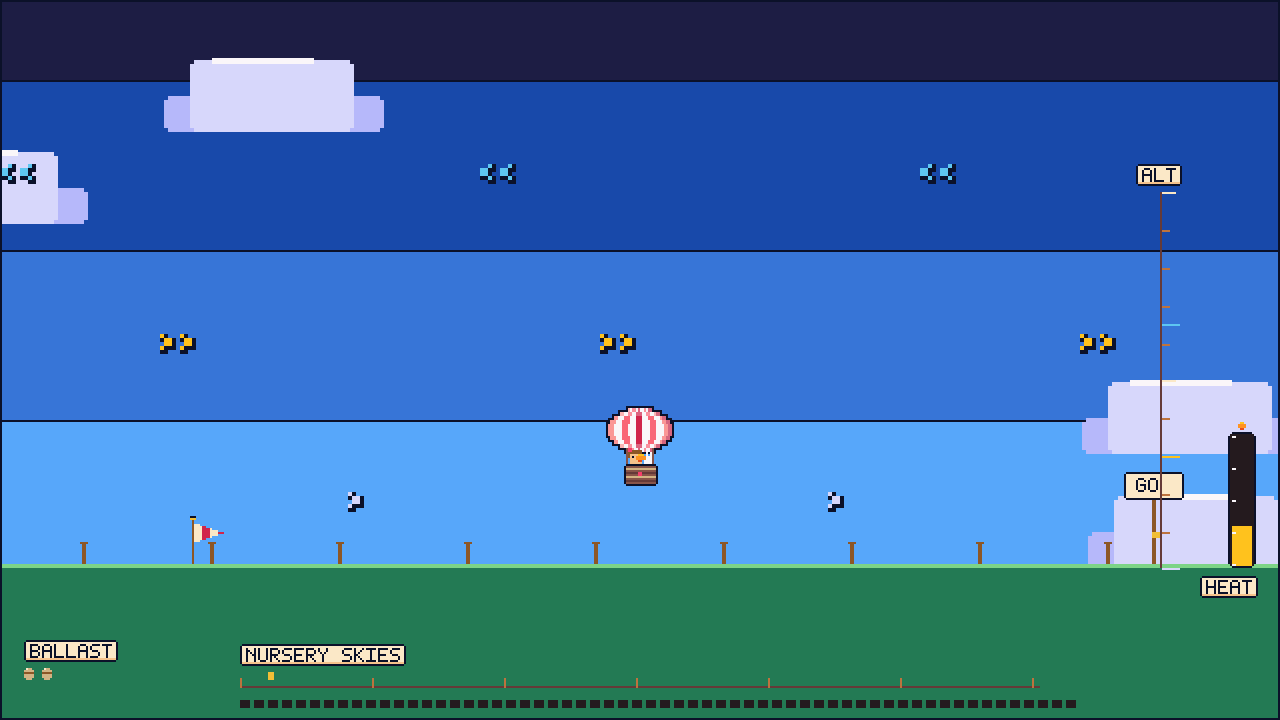
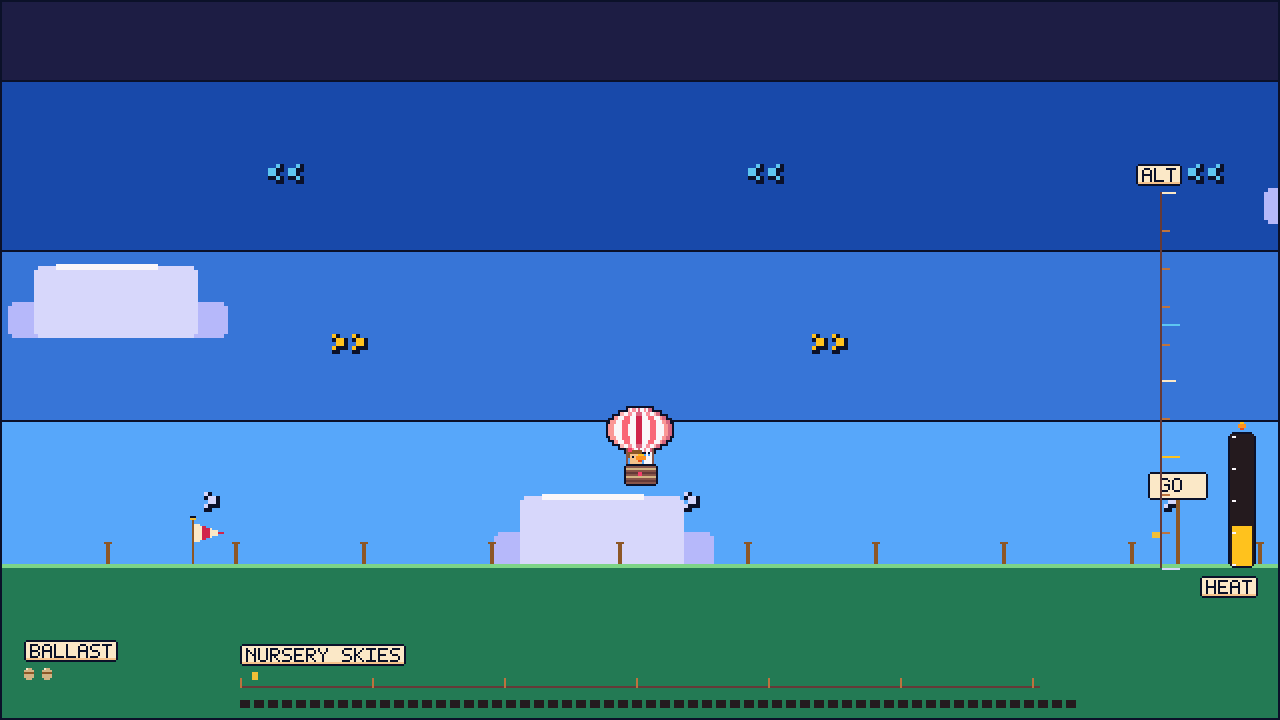
fix(feel): halve the wind bands — the sky must not fly at the player
Playtest round 2 of the I5 feel gate: decoration tuning was not enough,
because the whole world sweeps past the camera at band speed. The last
lever was the wind itself, and the playtest pulled it:

- Band speeds 40/75/110 -> 20/38/55 px/s (gusts scaled to match). The
  delivery autopilot absorbed the halving with zero retuning: it scores
  real altitude holds every second instead of flying a hand-drawn
  pattern, so slower air just means it plans a slower flight.
- Cloud layers pushed further still (0.40/0.25 parallax, 6-10% drift);
  chevron travel trimmed to 4% of band speed.
- New invariant test: the ghost pilot lands 3 stars, clean, inside par
  on every level — par stays a promise that a good flight exists at the
  new speeds. Courses and pars kept; a balloon rides a breeze.

Initiative: 5 (feel gate, playtest round 2)
Verified: dotnet test 46/46 (incl. ghost-pilot-inside-par x3); npx
playwright test 36/36 both viewports; docs/screenshots refreshed and
judged (bands still read at calmed drift, clouds read as distance)

diff --git a/tests/harness.spec.js b/tests/harness.spec.js
@@ -141,7 +141,7 @@ test('the wind bands own horizontal travel, and switching levels relaunches', as
   });
 
   expect(flown.drift).toBeGreaterThan(100);                 // climbing into the + band moved us downwind
-  expect(flown.vx).toBeGreaterThan(50);                     // ...and velocity is chasing that band's wind
+  expect(flown.vx).toBeGreaterThan(25);                     // ...chasing that band's 38 px/s wind (post-sickness halving)
   expect(flown.bad).toBe('error:unknown-level:nowhere-level');
   expect(flown.switched).toBe('ok:level=night-crossing');
   expect(flown.afterSwitch).toBe(0);                        // switched = relaunched, not teleported

diff --git a/Balloonatic/Balloonatic.Game/Screens/WorldScreen.cs b/Balloonatic/Balloonatic.Game/Screens/WorldScreen.cs
@@ -24,9 +24,9 @@ namespace Balloonatic.Screens
         // Deliberately far below the camera speed: the world itself already sweeps past at wind speed,
         // and background layers that ride along at near-world speed make the sky feel like it is flying
         // at the player (playtest: motion sickness at 2x scale). Distance should read as slowness.
-        const float StarsParallax = 0.2f;
-        const float FarCloudParallax = 0.35f;
-        const float MidCloudParallax = 0.55f;
+        const float StarsParallax = 0.15f;
+        const float FarCloudParallax = 0.25f;
+        const float MidCloudParallax = 0.40f;
 
         // Stepped sky ramp by altitude: the higher the balloon, the older and darker the air gets.
         static readonly (float Altitude, Color Color)[] SkyRamp =
@@ -174,7 +174,7 @@ namespace Balloonatic.Screens
                 // player's ambient wind read — and the drift is state-derived (tick), so frames are stable.
                 // A slow suggestion of drift, not the band's full speed: big pale shapes crossing fast
                 // are exactly what the eye cannot ignore and the stomach cannot forgive.
-                float drift = Clock(state) * band.Direction * LevelDef.WindSpeed(band.Strength) * (far ? 0.10f : 0.16f);
+                float drift = Clock(state) * band.Direction * LevelDef.WindSpeed(band.Strength) * (far ? 0.06f : 0.10f);
 
                 int x = Wrap(wx + (int)drift - (int)(camX * parallax), span) - span / 4;
                 int y = ScreenY(altitude - (int)(camAlt * (1f - parallax)), camAlt);
@@ -199,7 +199,7 @@ namespace Balloonatic.Screens
                 if (y < 6 || y > Sim.DesignHeight - 6)
                     continue;
 
-                float travel = Clock(state) * LevelDef.WindSpeed(band.Strength) * 0.05f * band.Direction;
+                float travel = Clock(state) * LevelDef.WindSpeed(band.Strength) * 0.04f * band.Direction;
                 for (int wx = -640; wx <= (int)level.CourseLength + 640; wx += 160)
                 {
                     int x = ScreenX(wx, camX) + (int)Wrap(travel, 160f * band.Direction) % 160 * band.Direction;

diff --git a/Balloonatic/Balloonatic.Core/Level.cs b/Balloonatic/Balloonatic.Core/Level.cs
@@ -84,12 +84,17 @@ namespace Balloonatic.Core
         public bool OverLaunchDeck(float x) => Math.Abs(x) <= SimTuning.DeckHalfWidth;
         public bool OverDeliveryDeck(float x) => Math.Abs(x - CourseLength) <= SimTuning.DeckHalfWidth;
 
-        /// <summary>Design px/s of band wind by strength. Three readable steps, no more.</summary>
+        /// <summary>
+        /// Design px/s of band wind by strength. Three readable steps, no more. Halved from
+        /// 40/75/110 after the I5 feel playtest: the whole world sweeps past the camera at these
+        /// speeds, and at the old numbers the sky flew at the player (motion sickness on record).
+        /// A balloon rides a breeze — the calm numbers are now the floor the playtest approved.
+        /// </summary>
         public static float WindSpeed(int strength) => strength switch
         {
-            <= 1 => 40f,
-            2 => 75f,
-            _ => 110f,
+            <= 1 => 20f,
+            2 => 38f,
+            _ => 55f,
         };
 
         public WindBand BandAt(float altitude)
@@ -150,7 +155,7 @@ namespace Balloonatic.Core
                     new WindBand(240f, 360f, -1, 2),
                     new WindBand(360f, 520f, +1, 3),
                 },
-                new[] { new GustZone(240f, 300f, -1, 35f) },
+                new[] { new GustZone(240f, 300f, -1, 20f) },
                 700f, 60),
 
             // Night: a long haul under a fast ceiling, above a calm floor. The middle air barely
@@ -165,7 +170,7 @@ namespace Balloonatic.Core
                     new WindBand(300f, 460f, -1, 1),
                     new WindBand(460f, 600f, +1, 2),
                 },
-                new[] { new GustZone(460f, 540f, +1, 40f) },
+                new[] { new GustZone(460f, 540f, +1, 22f) },
                 900f, 80),
         };
 

diff --git a/Balloonatic/Balloonatic.Tests/WindLayerTests.cs b/Balloonatic/Balloonatic.Tests/WindLayerTests.cs
@@ -97,11 +97,11 @@ namespace Balloonatic.Tests
         [Fact]
         public void A_gust_zone_adds_wind_on_top_of_its_band()
         {
-            LevelDef level = LevelCatalog.Get("winding-trail");   // gust -35 inside 240..300
+            LevelDef level = LevelCatalog.Get("winding-trail");   // gust -20 inside 240..300
 
             // Data-level: the wind function must include the gust. The flight-level consequence is covered
             // by the solvability tests and by the autopilot holding a band that gusts.
-            level.WindAt(270f).Should().Be(level.BandAt(270f).Direction * LevelDef.WindSpeed(2) - 35f);
+            level.WindAt(270f).Should().Be(level.BandAt(270f).Direction * LevelDef.WindSpeed(2) - 20f);
             level.WindAt(330f).Should().Be(-LevelDef.WindSpeed(2));
 
             // And the sim obeys the data: a balloon held inside a gust drifts upwind faster than one held
@@ -116,7 +116,9 @@ namespace Balloonatic.Tests
             outside.Handle("level", "winding-trail");
             HoldAt(outside, level, 330f, 1020);
 
-            F(inGust, "velocityX").Should().BeLessThan(F(outside, "velocityX") - 20f);
+            // 90% of the gust's 20 px/s must show up in the drift: the follow model converges
+            // asymptotically from the cruise side, so demanding the last 10% asserts noise, not physics.
+            F(inGust, "velocityX").Should().BeLessThan(F(outside, "velocityX") - 18f);
         }
 
         [Theory]

diff --git a/Balloonatic/Balloonatic.Tests/DeliveryTests.cs b/Balloonatic/Balloonatic.Tests/DeliveryTests.cs
@@ -122,6 +122,24 @@ namespace Balloonatic.Tests
         [InlineData("nursery-skies")]
         [InlineData("winding-trail")]
         [InlineData("night-crossing")]
+        public void The_ghost_pilot_lands_inside_par_so_the_speed_star_stays_earnable(string levelId)
+        {
+            // Par is a promise that a good human flight exists. The ghost pilot is the proof: if even
+            // the planner cannot beat par (clean), the par is fiction and the second star is dead.
+            LevelDef level = LevelCatalog.Get(levelId);
+            SimState s = new SimState { Seed = 0xC0FFEE, LevelId = level.Id };
+
+            Autopilot.Deliver(s, level, 120f).Should().BeTrue();
+
+            s.Stars.Should().Be(3, $"{levelId}: a flown-by-the-book delivery must earn all three stars");
+            s.Bounces.Should().Be(0);
+            s.Tick.Should().BeLessThan(level.ParSeconds * Sim.StepHz);
+        }
+
+        [Theory]
+        [InlineData("nursery-skies")]
+        [InlineData("winding-trail")]
+        [InlineData("night-crossing")]
         public void Delivery_is_reproducible_from_one_seed(string levelId)
         {
             LevelDef level = LevelCatalog.Get(levelId);

diff --git a/docs/BASELINE.md b/docs/BASELINE.md
@@ -14,7 +14,7 @@ exactly the way an entry host would.
 | `dotnet build` (5 projects, Release) | ~11 s | measured |
 | `dotnet publish` Blazor WebGL head | ~11 s (no `wasm-tools`, so no AOT) | measured |
 | Playwright suite | 36 tests, 2 viewports, ~27 s | `npx playwright test` |
-| xunit suite | 43 tests | `dotnet test` |
+| xunit suite | 46 tests | `dotnet test` |
 
 Budgets to watch (set in I12, warned about now): boot under ~3 s on a normal connection, payload under
 ~8 MB transferred, 60 fps in a Chromium tab. The 17 MB on disk is mostly uncompressed framework files
@@ -124,7 +124,8 @@ reads state and never writes it, so effects cannot perturb a replay.
   committed fall under the deck, return band) forward ~12 s on cloned state, scores the imagined
   ending with the landing read, and flies the winner for a second before re-imagining. Player-legal
   verbs only, fully deterministic, and every authored level ships with a proof it can be delivered
-  (all three land <= 24 s, clean, 3 stars).
+  (all three land clean inside par — a dedicated test demands 3 stars from the ghost pilot, so
+  par stays a promise that a good human flight exists, never fiction).
 - **Levels are re-authored until the autopilot can land them.** `winding-trail`'s lowest band now
   carries gently toward the deck, and `night-crossing` became a calm floor with a fast ceiling; the
   solvability test (`Every_authored_level_can_actually_be_delivered`) is what licenses the wind data,
@@ -146,6 +147,10 @@ Steven flew the desktop head and reported three things; each became a rule, not 
   The banner states which one R will do.
 - **Background layers move slower than the world, not with it** (playtest: "making me sick").
   The camera already sweeps at wind speed; mid clouds sat at 0.75 parallax and drifted at 40 % of
-  band speed on top of that. They are far layers now (0.55/0.35 parallax, 10–16 % drift, chevron
-  travel halved). Distance reads as slowness. If motion sickness survives this, the next lever is
-  the band speeds themselves (40/75/110 px/s) — deliberately untouched until a playtest says so.
+  band speed on top of that. They are far layers now (0.40/0.25 parallax, 6–10 % drift).
+- **Round 2 pulled the last lever: the wind bands themselves are halved** (40/75/110 → 20/38/55
+  px/s, gusts scaled with them). Decoration tuning had not been enough — the whole world was
+  sweeping past the camera at band speed, and at the old numbers the sky flew *at* the player.
+  Courses and pars were kept; the delivery autopilot re-plans every second and absorbed the
+  halving without a single constant changing, which is the argument for planning over patterns.
+  A balloon rides a breeze: these are the approved floor numbers, not a temporary softening.
